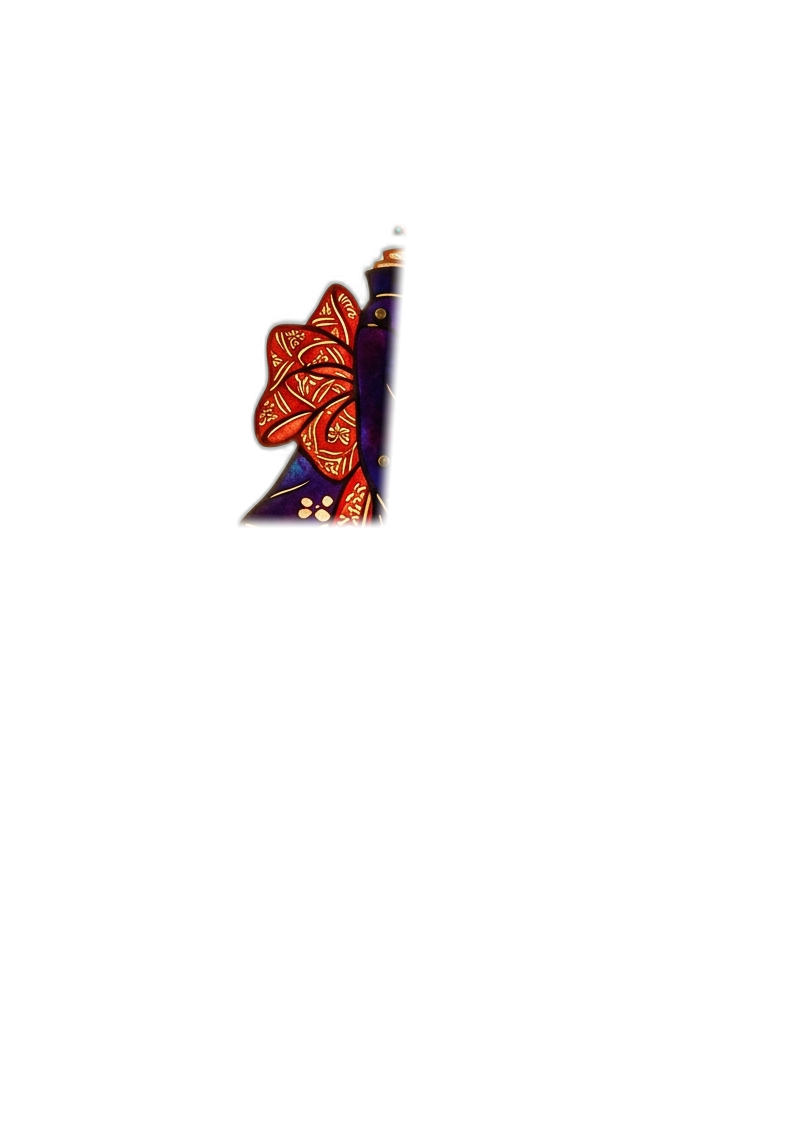
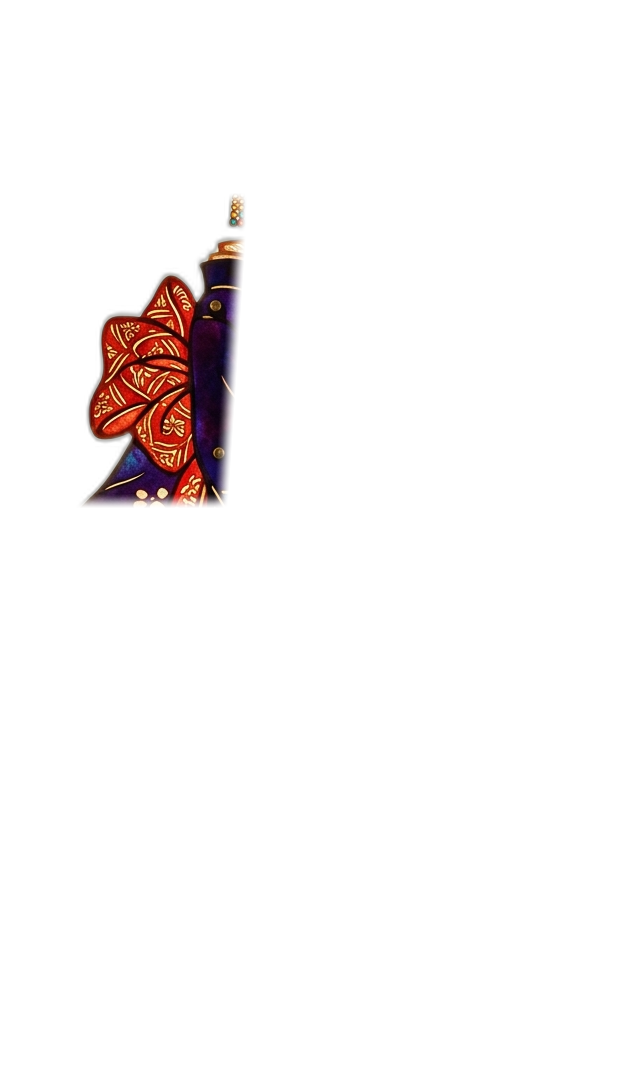
feat: complete Japanese puppet hem, remove downward pointing rods/wires, and disable hover effects

Changed region(s): [[0.1226, 0.1825, 0.521, 0.4866]]

diff --git a/frontend/src/components/puppet/ArticulatedCutoutPuppet.tsx b/frontend/src/components/puppet/ArticulatedCutoutPuppet.tsx
@@ -12,19 +12,14 @@ export const ArticulatedCutoutPuppet: React.FC<ArticulatedCutoutPuppetProps> = (
   className = '',
 }) => {
   const {
-    hoveredType,
-    mode,
     chineseGestureCounter,
     japaneseGestureCounter,
-    triggerChineseGesture,
-    triggerJapaneseGesture,
   } = usePuppetStore()
-  const { playPluck, playClick } = useAudioStore()
 
   const isChinese = type === 'chinese'
   const containerRef = useRef<HTMLDivElement>(null)
 
-  // Subtle natural movement angles (degrees / px)
+  // Subtle natural idle movement angles (degrees / px)
   const [angles, setAngles] = useState({
     head: 0,
     rightArm: 0,
@@ -34,7 +29,6 @@ export const ArticulatedCutoutPuppet: React.FC<ArticulatedCutoutPuppetProps> = (
     sway: 0,
   })
 
-  const [mouseOffset, setMouseOffset] = useState({ x: 0, y: 0 })
   const [isGesturing, setIsGesturing] = useState(false)
 
   // Listen to gesture triggers from store
@@ -56,6 +50,7 @@ export const ArticulatedCutoutPuppet: React.FC<ArticulatedCutoutPuppetProps> = (
   }
 
   // Smooth continuous requestAnimationFrame for subtle "very little movement"
+  // Completely isolated from mouse hover
   useEffect(() => {
     let animId: number
     let startTime = performance.now()
@@ -63,18 +58,15 @@ export const ArticulatedCutoutPuppet: React.FC<ArticulatedCutoutPuppetProps> = (
     const animate = (now: number) => {
       const elapsed = (now - startTime) / 1000 // seconds
 
-      // Very subtle organic idle breathing and gentle swaying
-      // Kept between 1.0 and 2.5 degrees as requested ("very little movement")
-      const gestureBoost = isGesturing ? 2.0 : 1.0
+      // Very subtle organic idle breathing and gentle swaying (1.0 to 2.0 degrees)
+      const gestureBoost = isGesturing ? 1.8 : 1.0
 
-      const head = Math.sin(elapsed * 0.9) * 1.5 * gestureBoost
-      const rightArm = Math.sin(elapsed * 1.1 + 0.4) * 2.2 * gestureBoost
-      const leftArm = Math.sin(elapsed * 0.85 + 1.2) * 2.0 * gestureBoost
-      const skirt = Math.sin(elapsed * 0.7 + 2.0) * 1.2 * gestureBoost
-      const torsoY = Math.sin(elapsed * 0.8) * 1.4
-
-      // Gentle overall marionette tilt influenced slightly by mouse position
-      const sway = Math.sin(elapsed * 0.6) * 1.2 + mouseOffset.x * 2.0
+      const head = Math.sin(elapsed * 0.85) * 1.4 * gestureBoost
+      const rightArm = Math.sin(elapsed * 1.05 + 0.4) * 1.8 * gestureBoost
+      const leftArm = Math.sin(elapsed * 0.85 + 1.2) * 1.7 * gestureBoost
+      const skirt = Math.sin(elapsed * 0.65 + 2.0) * 1.0 * gestureBoost
+      const torsoY = Math.sin(elapsed * 0.75) * 1.2
+      const sway = Math.sin(elapsed * 0.55) * 0.8
 
       setAngles({
         head,
@@ -90,36 +82,9 @@ export const ArticulatedCutoutPuppet: React.FC<ArticulatedCutoutPuppetProps> = (
 
     animId = requestAnimationFrame(animate)
     return () => cancelAnimationFrame(animId)
-  }, [isGesturing, mouseOffset])
-
-  // Mouse hover subtle tilt
-  const handleMouseMove = (e: React.MouseEvent<HTMLDivElement>) => {
-    if (!containerRef.current) return
-    const rect = containerRef.current.getBoundingClientRect()
-    const relX = (e.clientX - (rect.left + rect.width / 2)) / (rect.width / 2)
-    const relY = (e.clientY - (rect.top + rect.height / 2)) / (rect.height / 2)
-    setMouseOffset({
-      x: Math.max(-1, Math.min(1, relX)),
-      y: Math.max(-1, Math.min(1, relY)),
-    })
-  }
-
-  const handleMouseLeave = () => {
-    setMouseOffset({ x: 0, y: 0 })
-  }
-
-  const handleClick = () => {
-    playClick()
-    playPluck(isChinese ? 'F4' : 'G4')
-    if (isChinese) {
-      triggerChineseGesture()
-    } else {
-      triggerJapaneseGesture()
-    }
-  }
+  }, [isGesturing])
 
   // Configuration for each puppet type
-  // Coordinates are defined in SVG coordinate space (0..100)
   const config = isChinese
     ? {
         aspectRatio: '657 / 992',
@@ -128,7 +93,6 @@ export const ArticulatedCutoutPuppet: React.FC<ArticulatedCutoutPuppetProps> = (
         leftArmSrc: '/assets/shadow/part_left_arm.png',
         rightArmSrc: '/assets/shadow/part_right_arm.png',
         headSrc: '/assets/shadow/part_head.png',
-        // Pivot points for rotation
         pivots: {
           head: '54.8% 23.7%',
           leftArm: '47.2% 25.7%',
@@ -136,15 +100,14 @@ export const ArticulatedCutoutPuppet: React.FC<ArticulatedCutoutPuppetProps> = (
           skirt: '56.3% 47.4%',
           torso: '56.3% 35.3%',
         },
-        // Thread endpoints on puppet (% in 100x100 space)
+        // Only 4 clean overhead suspension threads (no downward pointing strings)
         threads: [
           { id: 'head', barX: 55, barY: 4, targetX: 54.8, targetY: 4.0 },
           { id: 'rightArm', barX: 74, barY: 4, targetX: 77.0, targetY: 17.5 },
           { id: 'leftArm', barX: 28, barY: 4, targetX: 24.5, targetY: 42.0 },
           { id: 'waist', barX: 46, barY: 4, targetX: 56.3, targetY: 47.4 },
-          { id: 'ribbon', barX: 82, barY: 4, targetX: 86.0, targetY: 24.0 },
         ],
-        // Brass rivets at joints (% in 100x100 space)
+        // Brass rivets at joints
         rivets: [
           { x: 54.8, y: 23.7, label: 'Neck Joint' },
           { x: 47.2, y: 25.7, label: 'Left Shoulder' },
@@ -153,46 +116,42 @@ export const ArticulatedCutoutPuppet: React.FC<ArticulatedCutoutPuppetProps> = (
         ],
       }
     : {
-        aspectRatio: '796 / 1138',
+        aspectRatio: '620 / 1085',
         torsoSrc: '/assets/shadow/jp_part_torso.png',
         skirtSrc: '/assets/shadow/jp_part_skirt.png',
         leftArmSrc: '/assets/shadow/jp_part_left_arm.png',
         rightArmSrc: '/assets/shadow/jp_part_right_arm.png',
         headSrc: '/assets/shadow/jp_part_head.png',
         pivots: {
-          head: '58.0% 20.0%',
-          leftArm: '44.0% 26.0%',
-          rightArm: '70.0% 24.0%',
-          skirt: '58.0% 48.0%',
-          torso: '58.0% 36.0%',
+          head: '52.0% 18.0%',
+          leftArm: '32.0% 28.0%',
+          rightArm: '68.0% 25.0%',
+          skirt: '52.0% 48.0%',
+          torso: '52.0% 35.0%',
         },
+        // Only 4 clean overhead suspension threads (no downward pointing strings)
         threads: [
-          { id: 'head', barX: 58, barY: 4, targetX: 58.0, targetY: 6.0 },
-          { id: 'rightArm', barX: 76, barY: 4, targetX: 78.0, targetY: 26.0 },
-          { id: 'leftArm', barX: 34, barY: 4, targetX: 36.0, targetY: 38.0 },
-          { id: 'waist', barX: 50, barY: 4, targetX: 58.0, targetY: 48.0 },
-          { id: 'hem', barX: 28, barY: 4, targetX: 32.0, targetY: 72.0 },
+          { id: 'head', barX: 52, barY: 4, targetX: 52.0, targetY: 5.0 },
+          { id: 'rightArm', barX: 76, barY: 4, targetX: 78.0, targetY: 22.0 },
+          { id: 'leftArm', barX: 26, barY: 4, targetX: 24.0, targetY: 34.0 },
+          { id: 'waist', barX: 44, barY: 4, targetX: 52.0, targetY: 46.0 },
         ],
         rivets: [
-          { x: 58.0, y: 20.0, label: 'Neck Joint' },
-          { x: 44.0, y: 26.0, label: 'Left Shoulder' },
-          { x: 70.0, y: 24.0, label: 'Right Shoulder' },
-          { x: 58.0, y: 48.0, label: 'Waist Joint' },
+          { x: 52.0, y: 18.0, label: 'Neck Joint' },
+          { x: 32.0, y: 28.0, label: 'Left Shoulder' },
+          { x: 68.0, y: 25.0, label: 'Right Shoulder' },
+          { x: 52.0, y: 48.0, label: 'Waist Joint' },
         ],
       }
 
   return (
     <div
       ref={containerRef}
-      onClick={handleClick}
-      onMouseMove={handleMouseMove}
-      onMouseLeave={handleMouseLeave}
-      className={`relative w-full h-[290px] md:h-[340px] select-none cursor-pointer group flex flex-col items-center justify-center filter drop-shadow-[0_14px_28px_rgba(0,0,0,0.5)] transition-transform duration-300 hover:scale-[1.02] ${className}`}
-      title={`Click to animate ${isChinese ? 'Chinese Opera' : 'Japanese Bunraku'} shadow puppet`}
+      className={`relative w-full h-[290px] md:h-[340px] select-none pointer-events-none flex flex-col items-center justify-center filter drop-shadow-[0_14px_28px_rgba(0,0,0,0.5)] ${className}`}
       style={{
         transform: `rotate(${angles.sway}deg) translateY(${angles.torsoY}px)`,
         transformOrigin: '50% 4%',
-        transition: 'transform 0.1s ease-out',
+        transition: 'transform 0.15s ease-out',
       }}
     >
       {/* ==============================================================
@@ -239,25 +198,25 @@ export const ArticulatedCutoutPuppet: React.FC<ArticulatedCutoutPuppetProps> = (
             <circle cx="82" cy="4.3" r="1.4" fill="#d4af37" stroke="#8a6d1b" strokeWidth="0.4" />
           </g>
 
-          {/* 5 Dynamic Silk Marionette Threads */}
+          {/* Overhead Silk Marionette Suspension Threads */}
           {config.threads.map((t) => {
             // Apply slight dynamic sway to target position based on animated angle
             let dynamicTargetX = t.targetX
             let dynamicTargetY = t.targetY
 
             if (t.id === 'head') {
-              dynamicTargetX += angles.head * 0.15
+              dynamicTargetX += angles.head * 0.12
             } else if (t.id === 'rightArm') {
-              dynamicTargetX += angles.rightArm * 0.25
-              dynamicTargetY -= Math.abs(angles.rightArm) * 0.1
+              dynamicTargetX += angles.rightArm * 0.2
+              dynamicTargetY -= Math.abs(angles.rightArm) * 0.08
             } else if (t.id === 'leftArm') {
-              dynamicTargetX -= angles.leftArm * 0.2
-            } else if (t.id === 'skirt' || t.id === 'waist') {
-              dynamicTargetX += angles.skirt * 0.2
+              dynamicTargetX -= angles.leftArm * 0.18
+            } else if (t.id === 'waist') {
+              dynamicTargetX += angles.skirt * 0.15
             }
 
             // Curve control point with natural catenary flex
-            const midX = (t.barX + dynamicTargetX) / 2 + Math.sin(angles.sway * 0.05) * 1.5
+            const midX = (t.barX + dynamicTargetX) / 2
             const midY = (t.barY + dynamicTargetY) / 2
 
             return (
@@ -271,7 +230,7 @@ export const ArticulatedCutoutPuppet: React.FC<ArticulatedCutoutPuppetProps> = (
                   strokeOpacity="0.85"
                   filter={`url(#threadGlow-${type})`}
                 />
-                {/* Secondary subtle shadow strand for 3D depth */}
+                {/* Secondary subtle shadow strand for depth */}
                 <path
                   d={`M ${t.barX + 0.3} ${t.barY} Q ${midX + 0.3} ${midY} ${dynamicTargetX + 0.3} ${dynamicTargetY}`}
                   fill="none"
@@ -318,7 +277,7 @@ export const ArticulatedCutoutPuppet: React.FC<ArticulatedCutoutPuppetProps> = (
         className="relative h-full overflow-visible mx-auto"
         style={{ aspectRatio: config.aspectRatio }}
       >
-        {/* Layer 1: Skirt & Lower Body (Hinged at Waist) */}
+        {/* Layer 1: Skirt & Lower Body (Hinged at Waist - Complete Full Hem & Geta Shoe!) */}
         <img
           src={config.skirtSrc}
           alt="Puppet Skirt"
@@ -352,7 +311,7 @@ export const ArticulatedCutoutPuppet: React.FC<ArticulatedCutoutPuppetProps> = (
           }}
         />
 
-        {/* Layer 4: Right Arm, Sword & Ribbon (Hinged at Right Shoulder) */}
+        {/* Layer 4: Right Arm & Fan/Sword (Hinged at Right Shoulder) */}
         <img
           src={config.rightArmSrc}
           alt="Puppet Right Arm"
@@ -364,7 +323,7 @@ export const ArticulatedCutoutPuppet: React.FC<ArticulatedCutoutPuppetProps> = (
           }}
         />
 
-        {/* Layer 5: Head, Crown & Tassels (Hinged at Neck Collar) */}
+        {/* Layer 5: Head, Crown & Headdress (Hinged at Neck Collar) */}
         <img
           src={config.headSrc}
           alt="Puppet Head"

diff --git a/frontend/src/components/puppet/PuppetStage.tsx b/frontend/src/components/puppet/PuppetStage.tsx
@@ -1,11 +1,9 @@
 import React, { useState } from 'react'
 import { ArticulatedCutoutPuppet } from './ArticulatedCutoutPuppet'
 import { useFlowStore } from '../../stores/useFlowStore'
-import { usePuppetStore } from '../../stores/usePuppetStore'
 
 export const PuppetStage: React.FC = () => {
   const { stage } = useFlowStore()
-  const { setHoveredType } = usePuppetStore()
   const [viewMode, setViewMode] = useState<'both' | 'chinese' | 'japanese'>('both')
 
   const isWorkshop = stage === 'workshop'
@@ -63,15 +61,13 @@ export const PuppetStage: React.FC = () => {
         {/* Left / Center Puppet: Chinese Opera Shadow Puppet (Attached Image) */}
         {(viewMode === 'both' || viewMode === 'chinese') && (
           <div
-            className={`pointer-events-auto transition-all duration-500 flex flex-col items-center ${
+            className={`transition-all duration-500 flex flex-col items-center ${
               viewMode === 'chinese'
                 ? 'w-72 md:w-80 mx-auto'
                 : isWorkshop
                 ? 'w-36 md:w-44 -mr-4'
                 : 'w-56 md:w-64 mx-4'
             }`}
-            onMouseEnter={() => setHoveredType('website')}
-            onMouseLeave={() => setHoveredType(null)}
           >
             <ArticulatedCutoutPuppet type="chinese" />
           </div>
@@ -90,15 +86,13 @@ export const PuppetStage: React.FC = () => {
         {/* Right / Center Puppet: Japanese Bunraku Shadow Puppet */}
         {(viewMode === 'both' || viewMode === 'japanese') && (
           <div
-            className={`pointer-events-auto transition-all duration-500 flex flex-col items-center ${
+            className={`transition-all duration-500 flex flex-col items-center ${
               viewMode === 'japanese'
                 ? 'w-72 md:w-80 mx-auto'
                 : isWorkshop
                 ? 'w-36 md:w-44 -ml-4'
                 : 'w-56 md:w-64 mx-4'
             }`}
-            onMouseEnter={() => setHoveredType('webapp')}
-            onMouseLeave={() => setHoveredType(null)}
           >
             <ArticulatedCutoutPuppet type="japanese" />
           </div>
